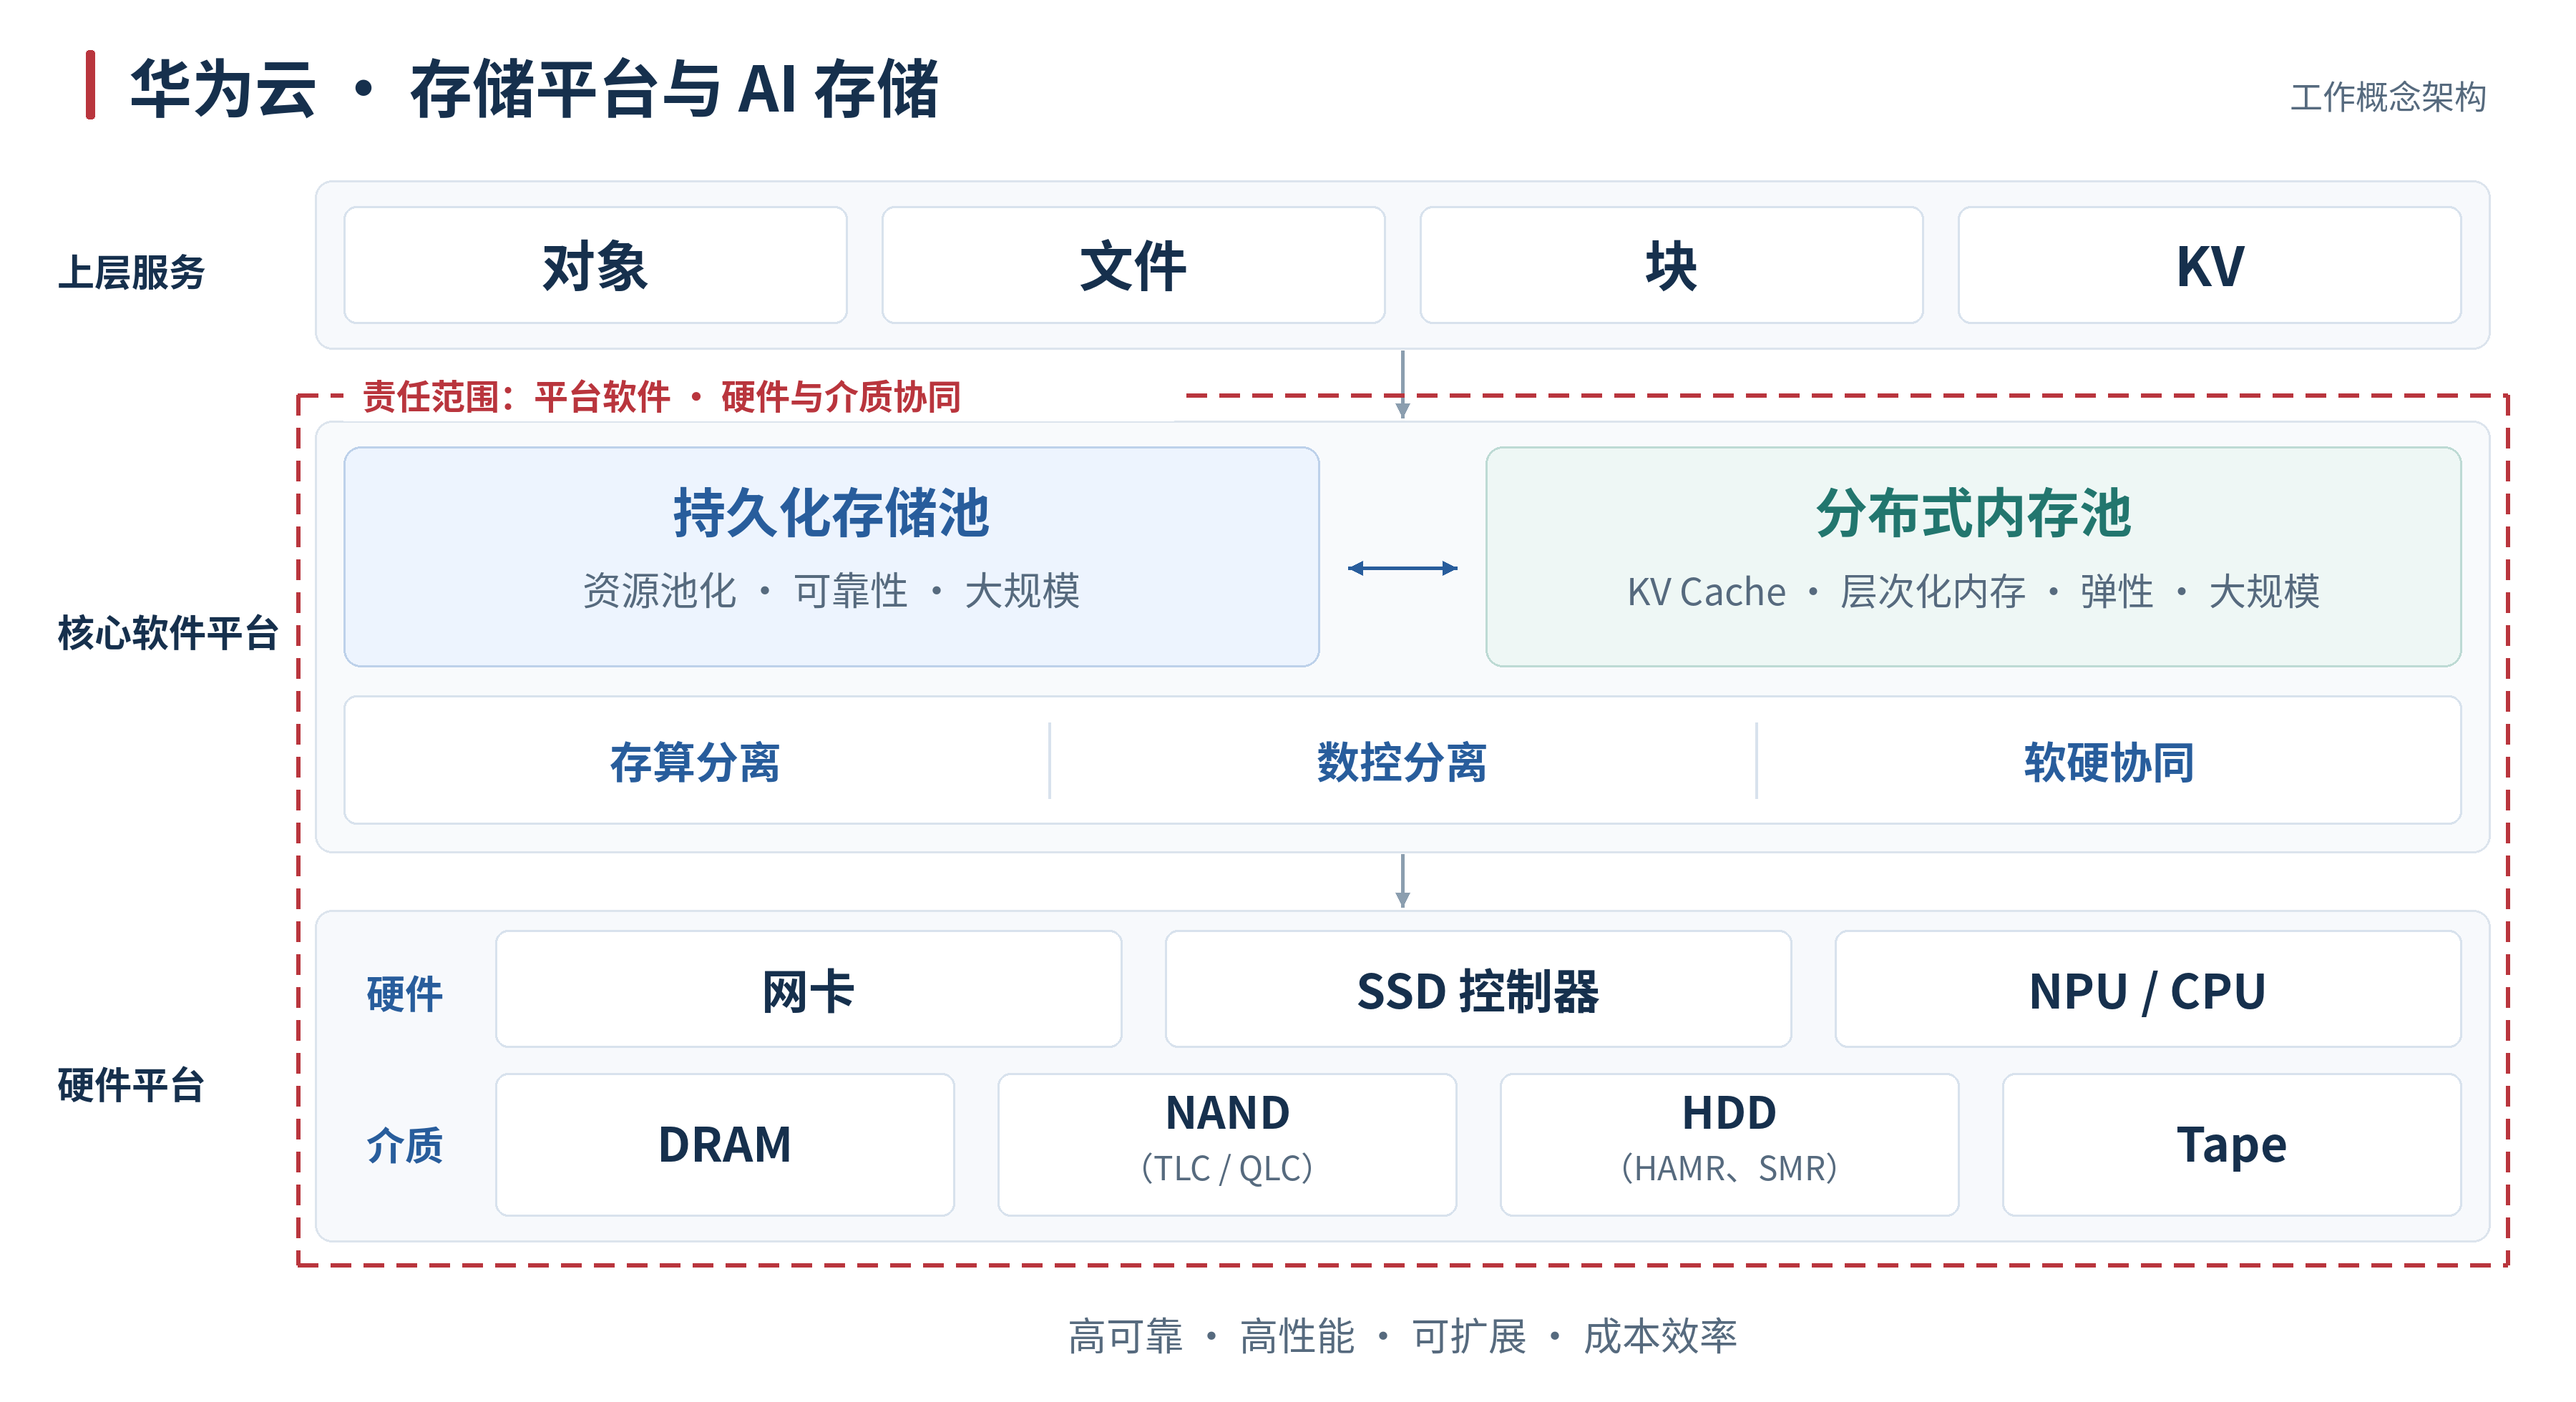
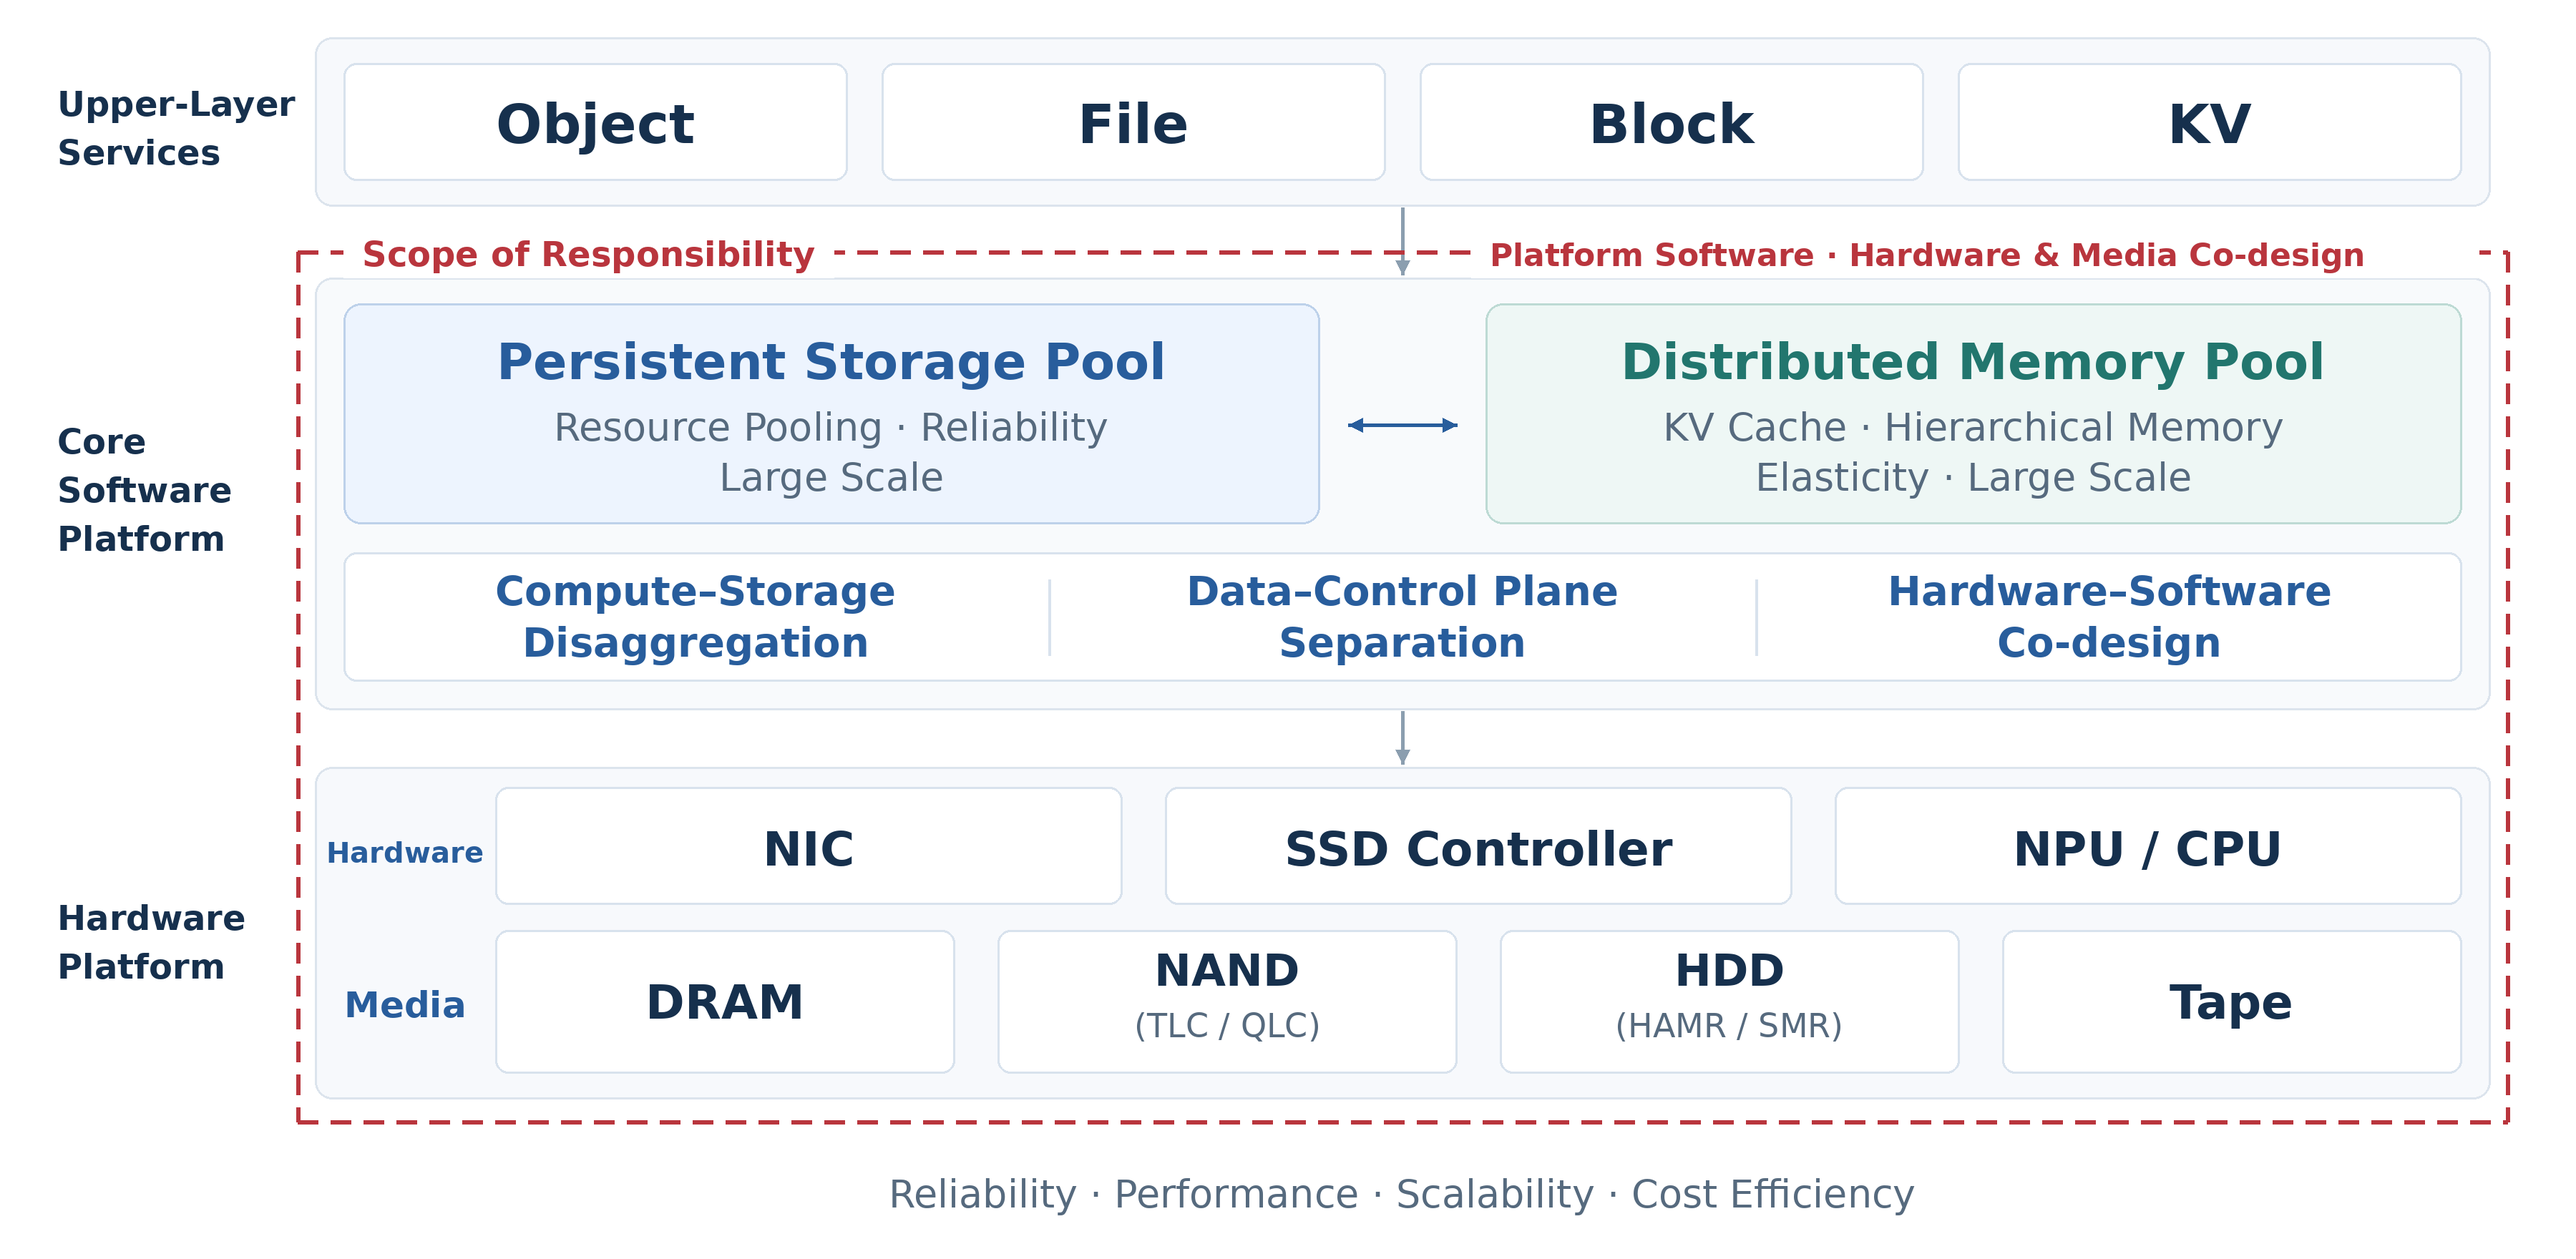
x

diff --git a/index.html b/index.html
@@ -35,7 +35,7 @@
       {"@type": "CollegeOrUniversity", "name": "University of Electronic Science and Technology of China"}
     ],
     "url": "https://yfrank1.github.io/",
-    "email": "mailto:yangf17@tsinghua.org.cn",
+    "email": "mailto:yanggffan@gmail.com",
     "sameAs": ["https://storage.cs.tsinghua.edu.cn/~yf/", "https://scholar.google.com/citations?user=eyyrEU0AAAAJ&hl=en"],
     "knowsAbout": ["distributed storage", "storage architecture", "storage I/O offload", "hardware–software co-design", "persistent memory", "KV cache", "memory pooling"]
   }
@@ -49,7 +49,7 @@
       <div class="info">
         <h1>Fan Yang <span class="name-zh" lang="zh-CN">杨帆</span></h1>
         <p>System Architect · Huawei Cloud Storage</p>
-        <p><a href="mailto:yangf17@tsinghua.org.cn" class="email-link">yangf17@tsinghua.org.cn</a></p>
+        <p><a href="mailto:yanggffan@gmail.com" class="email-link">yanggffan@gmail.com</a></p>
         <p class="profile-links">
           <a href="https://scholar.google.com/citations?user=eyyrEU0AAAAJ&amp;hl=en" target="_blank" rel="noopener noreferrer" class="blue-tag">Google Scholar</a>
         </p>
@@ -89,11 +89,11 @@
             and connect university research with practical storage challenges.</li>
         </ul>
         <figure class="work-architecture">
-          <a class="work-architecture-image" href="assets/huawei-work-architecture.png" target="_blank" rel="noopener" aria-label="View the storage architecture diagram at full size">
-            <img src="assets/huawei-work-architecture.svg" width="1800" height="980" loading="lazy" decoding="async"
+          <a class="work-architecture-image" href="assets/huawei-work-architecture.png?v=en-20261006" target="_blank" rel="noopener" aria-label="View the storage architecture diagram at full size">
+            <img src="assets/huawei-work-architecture.svg?v=en-20261006" width="1800" height="880" loading="lazy" decoding="async"
               alt="Huawei Cloud storage architecture: object, file, block, and KV services above a core software platform with persistent storage and distributed memory pools. The responsibility boundary covers the software platform and its collaboration with hardware and storage media." />
           </a>
-          <figcaption>Storage platform architecture and scope of responsibility. <a href="assets/huawei-work-architecture.png" class="blue-tag" target="_blank" rel="noopener">View full size</a></figcaption>
+          <figcaption>Storage platform architecture and scope of responsibility. <a href="assets/huawei-work-architecture.png?v=en-20261006" class="blue-tag" target="_blank" rel="noopener">View full size</a></figcaption>
         </figure>
       </section>
       <section id="education">
@@ -116,7 +116,7 @@
 </ul>
 <h3>2026</h3>
 <ul>
-<li><span class="paper-heading"><strong class="paper-venue-tag">[TOS&#39;26]</strong><span class="paper-title">Tape in the Cloud: A Cost-Efficient Archive Storage System</span></span><span class="authors"><strong class="highlight">Fan Yang*</strong>, Qing Wang*, Leiming Chen, Xiaodan Yan, Lanzhe Li, Pingchang Bai, Geng Xiao, Yongpeng Chen, Hao Lan, Bangzhu Chen, Chenrui Liu, Bin Huang, Zigan Luo, Mingyu Xie, Yu Wang, Youyou Lu, Qiang Liu, Huatao Wu, Jiwu Shu†</span><br><span class="venue-full">ACM Transactions on Storage, 2026</span><br><strong class="award"><em>Fast-Tracked, Accepted without revisions</em></strong> <span class="ccf-rating">[CCF-A]</span></li>
+<li><span class="paper-heading"><strong class="paper-venue-tag">[TOS&#39;26]</strong><a href="https://doi.org/10.1145/3849624" target="_blank" rel="noopener noreferrer" class="paper-title">Tape in the Cloud: A Cost-Efficient Archive Storage System</a> <a href="https://dl.acm.org/doi/pdf/10.1145/3849624" target="_blank" rel="noopener noreferrer" class="blue-tag">[PDF]</a></span><span class="authors"><strong class="highlight">Fan Yang*</strong>, Qing Wang*, Leiming Chen, Xiaodan Yan, Lanzhe Li, Pingchang Bai, Geng Xiao, Yongpeng Chen, Hao Lan, Bangzhu Chen, Chenrui Liu, Bin Huang, Zigan Luo, Mingyu Xie, Yu Wang, Youyou Lu, Qiang Liu, Huatao Wu, Jiwu Shu†</span><br><span class="venue-full">ACM Transactions on Storage, 2026</span><br><strong class="award"><em>Fast-Tracked, Accepted without revisions</em></strong> <span class="ccf-rating">[CCF-A]</span></li>
 <li><span class="paper-heading"><strong class="paper-venue-tag">[FAST&#39;26]</strong><a href="https://www.usenix.org/conference/fast26/presentation/wang" target="_blank" rel="noopener noreferrer" class="paper-title">Cost-efficient Archive Cloud Storage with Tape: Design and Deployment</a> <a href="https://www.usenix.org/system/files/fast26-wang.pdf" target="_blank" rel="noopener noreferrer" class="blue-tag">[PDF]</a></span><span class="authors">Qing Wang*, <strong class="highlight">Fan Yang*</strong>, Qiang Liu, Geng Xiao, Yongpeng Chen, Hao Lan, Leiming Chen, Bangzhu Chen, Chenrui Liu, Pingchang Bai, Bin Huang, Zigan Luo, Mingyu Xie, Yu Wang, Youyou Lu, Huatao Wu, Jiwu Shu</span><br><span class="venue-full">24th USENIX Conference on File and Storage Technologies, pp. 19–34, 2026</span><br><strong class="award"><em>Best Paper Award Candidate, Invited for fast-tracked publication in ACM Transactions on Storage</em></strong> <span class="ccf-rating">[CCF-A]</span></li>
 <li><span class="paper-heading"><strong class="paper-venue-tag">[MICRO&#39;26]</strong><span class="paper-title">Hera: Eliminating the I/O Tax of RAID on High-Capacity SSDs</span></span><span class="authors">Jian Chen, Congming Gao, <strong class="highlight">Fan Yang</strong>, Qing Wang, Zhengzhi Xin, Yuhao Zhang, Youyou Lu, Jiwu Shu</span><br><span class="venue-full">59th IEEE/ACM International Symposium on Microarchitecture, 2026</span> <span class="ccf-rating">[CCF-A]</span></li>
 </ul>

diff --git a/js_index.html b/js_index.html
@@ -35,7 +35,7 @@
       {"@type": "CollegeOrUniversity", "name": "University of Electronic Science and Technology of China"}
     ],
     "url": "https://yfrank1.github.io/",
-    "email": "mailto:yangf17@tsinghua.org.cn",
+    "email": "mailto:yanggffan@gmail.com",
     "sameAs": ["https://storage.cs.tsinghua.edu.cn/~yf/", "https://scholar.google.com/citations?user=eyyrEU0AAAAJ&hl=en"],
     "knowsAbout": ["distributed storage", "storage architecture", "storage I/O offload", "hardware–software co-design", "persistent memory", "KV cache", "memory pooling"]
   }
@@ -49,7 +49,7 @@
       <div class="info">
         <h1>Fan Yang <span class="name-zh" lang="zh-CN">杨帆</span></h1>
         <p>System Architect · Huawei Cloud Storage</p>
-        <p><a href="mailto:yangf17@tsinghua.org.cn" class="email-link">yangf17@tsinghua.org.cn</a></p>
+        <p><a href="mailto:yanggffan@gmail.com" class="email-link">yanggffan@gmail.com</a></p>
         <p class="profile-links">
           <a href="https://scholar.google.com/citations?user=eyyrEU0AAAAJ&amp;hl=en" target="_blank" rel="noopener noreferrer" class="blue-tag">Google Scholar</a>
         </p>
@@ -89,11 +89,11 @@
             and connect university research with practical storage challenges.</li>
         </ul>
         <figure class="work-architecture">
-          <a class="work-architecture-image" href="assets/huawei-work-architecture.png" target="_blank" rel="noopener" aria-label="View the storage architecture diagram at full size">
-            <img src="assets/huawei-work-architecture.svg" width="1800" height="980" loading="lazy" decoding="async"
+          <a class="work-architecture-image" href="assets/huawei-work-architecture.png?v=en-20261006" target="_blank" rel="noopener" aria-label="View the storage architecture diagram at full size">
+            <img src="assets/huawei-work-architecture.svg?v=en-20261006" width="1800" height="880" loading="lazy" decoding="async"
               alt="Huawei Cloud storage architecture: object, file, block, and KV services above a core software platform with persistent storage and distributed memory pools. The responsibility boundary covers the software platform and its collaboration with hardware and storage media." />
           </a>
-          <figcaption>Storage platform architecture and scope of responsibility. <a href="assets/huawei-work-architecture.png" class="blue-tag" target="_blank" rel="noopener">View full size</a></figcaption>
+          <figcaption>Storage platform architecture and scope of responsibility. <a href="assets/huawei-work-architecture.png?v=en-20261006" class="blue-tag" target="_blank" rel="noopener">View full size</a></figcaption>
         </figure>
       </section>
       <section id="education">
